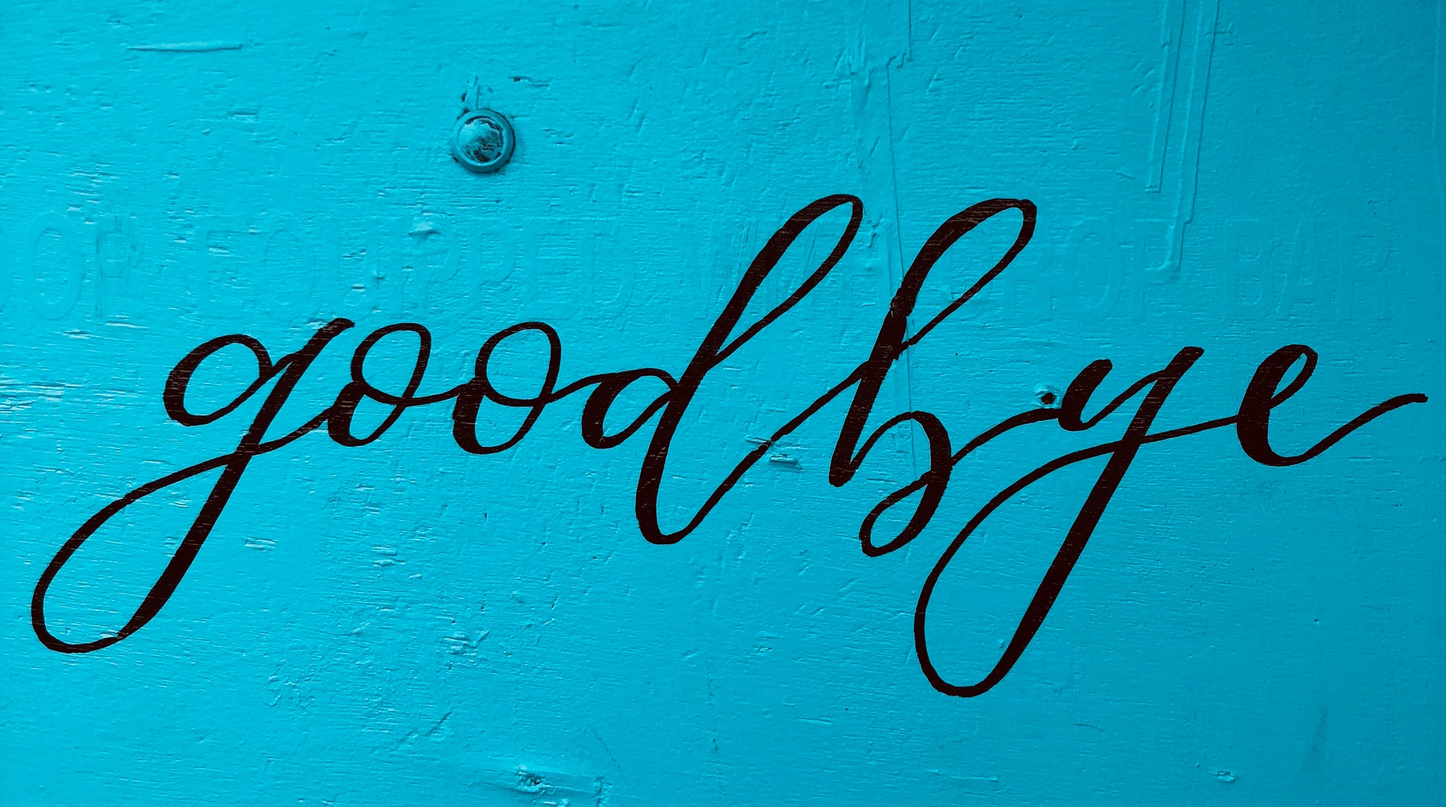
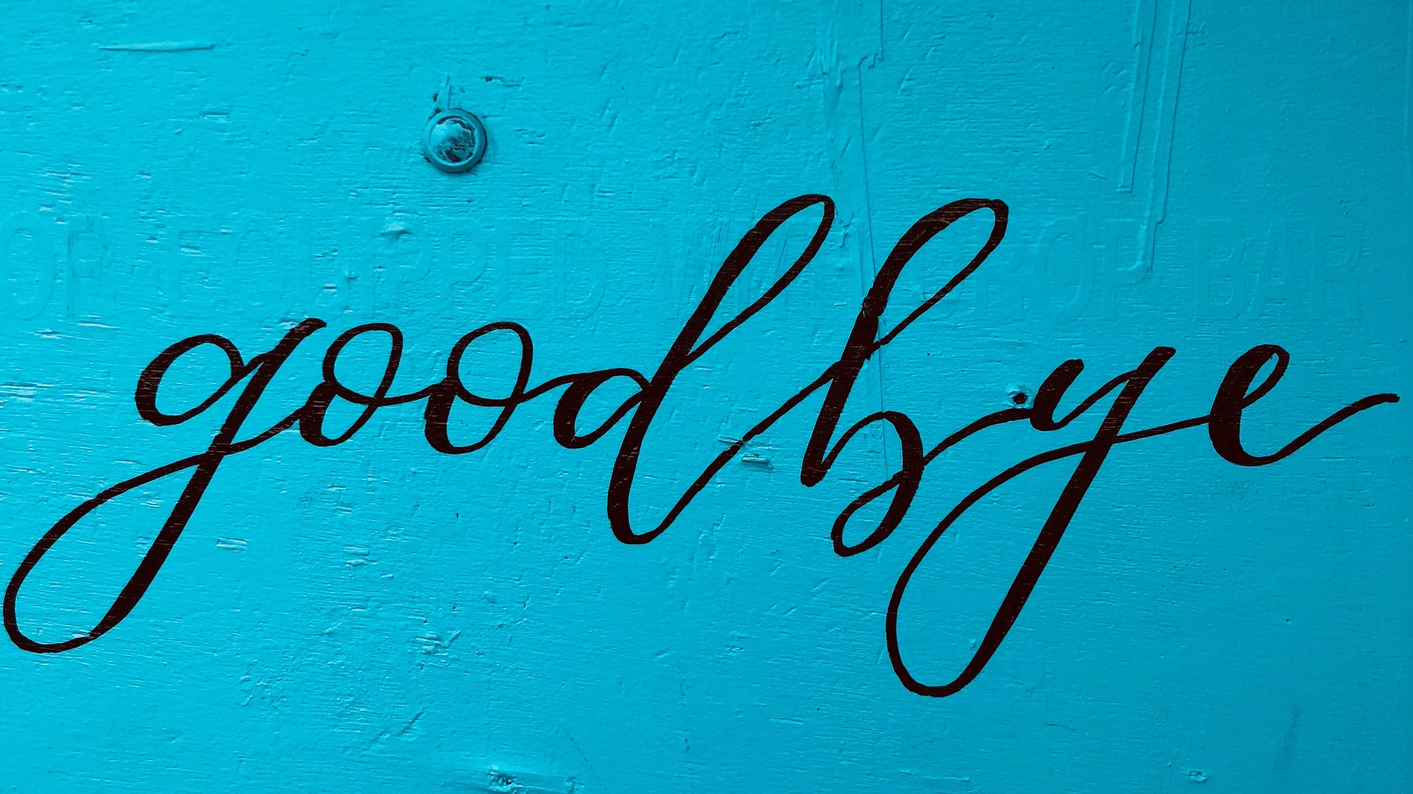
add js folder and application.js change image heights

diff --git a/app/views/index.html b/app/views/index.html
@@ -5,18 +5,24 @@
   <meta name="viewport" content="width=device-width, initial-scale=1.0">
   <meta http-equiv="X-UA-Compatible" content="ie=edge">
   <link rel="stylesheet" href="../../public/css/application.css">
+  <!-- usually this is at the end, but it's small -->
+  <script src="../../public/js/application.js"></script>
   <title>Hello Bye</title>
 </head>
 <body>
   <br>
   <br>
-  <h1 class="hello words">HELLO WORLD</h1>
-  <img src="../../public/images/hello.jpg" alt="hello" id="hiya">
-  <h1 class="bye words">GOODBYE!</h1>
-  <img src="../../public/images/goodbye.jpg" alt="bye" id="ciao">
+  <div id="helloWordsAndPic">
+    <h1 class="hello words">HELLO WORLD</h1>
+    <img src="../../public/images/hello.jpg" alt="neon hello" id="hiya">
+  </div>
+  <div id="goodbyeWordsAndPic">
+    <h1 class="bye words">GOODBYE!</h1>
+    <img src="../../public/images/goodbye.jpg" alt="goodbye on blue wall" id="ciao">
+  </div>
   <br>
   <br>
-  <button onclick="myFunction()">click me</button>
+  <button id="showButton" onclick="myFunction()">click me</button>
 
 </body>
 </html>

diff --git a/public/js/application.js b/public/js/application.js
@@ -1,0 +1,14 @@
+function myFunction() {
+  var x = document.getElementById("helloWordsAndPic");
+  var y = document.getElementById("goodbyeWordsAndPic");
+  var z = document.getElementById("showButton");
+  if (x.style.display === "none") {
+    x.style.display = "block";
+    y.style.display = "none";
+    z.innerText = "Goodbye";
+  } else {
+    x.style.display = "none";
+    y.style.display = "block";
+    z.innerText = "Hello";
+  }
+}

diff --git a/public/css/application.css b/public/css/application.css
@@ -3,9 +3,17 @@
 }
 img {
   width: 600px;
-  height: auto;
+  height: 337px;
 }
 .words {
   color: purple;
   font-size: 4em;
+}
+
+#helloWordsAndPic {
+  display: block;
+}
+
+#goodbyeWordsAndPic{
+  display: none;
 }
